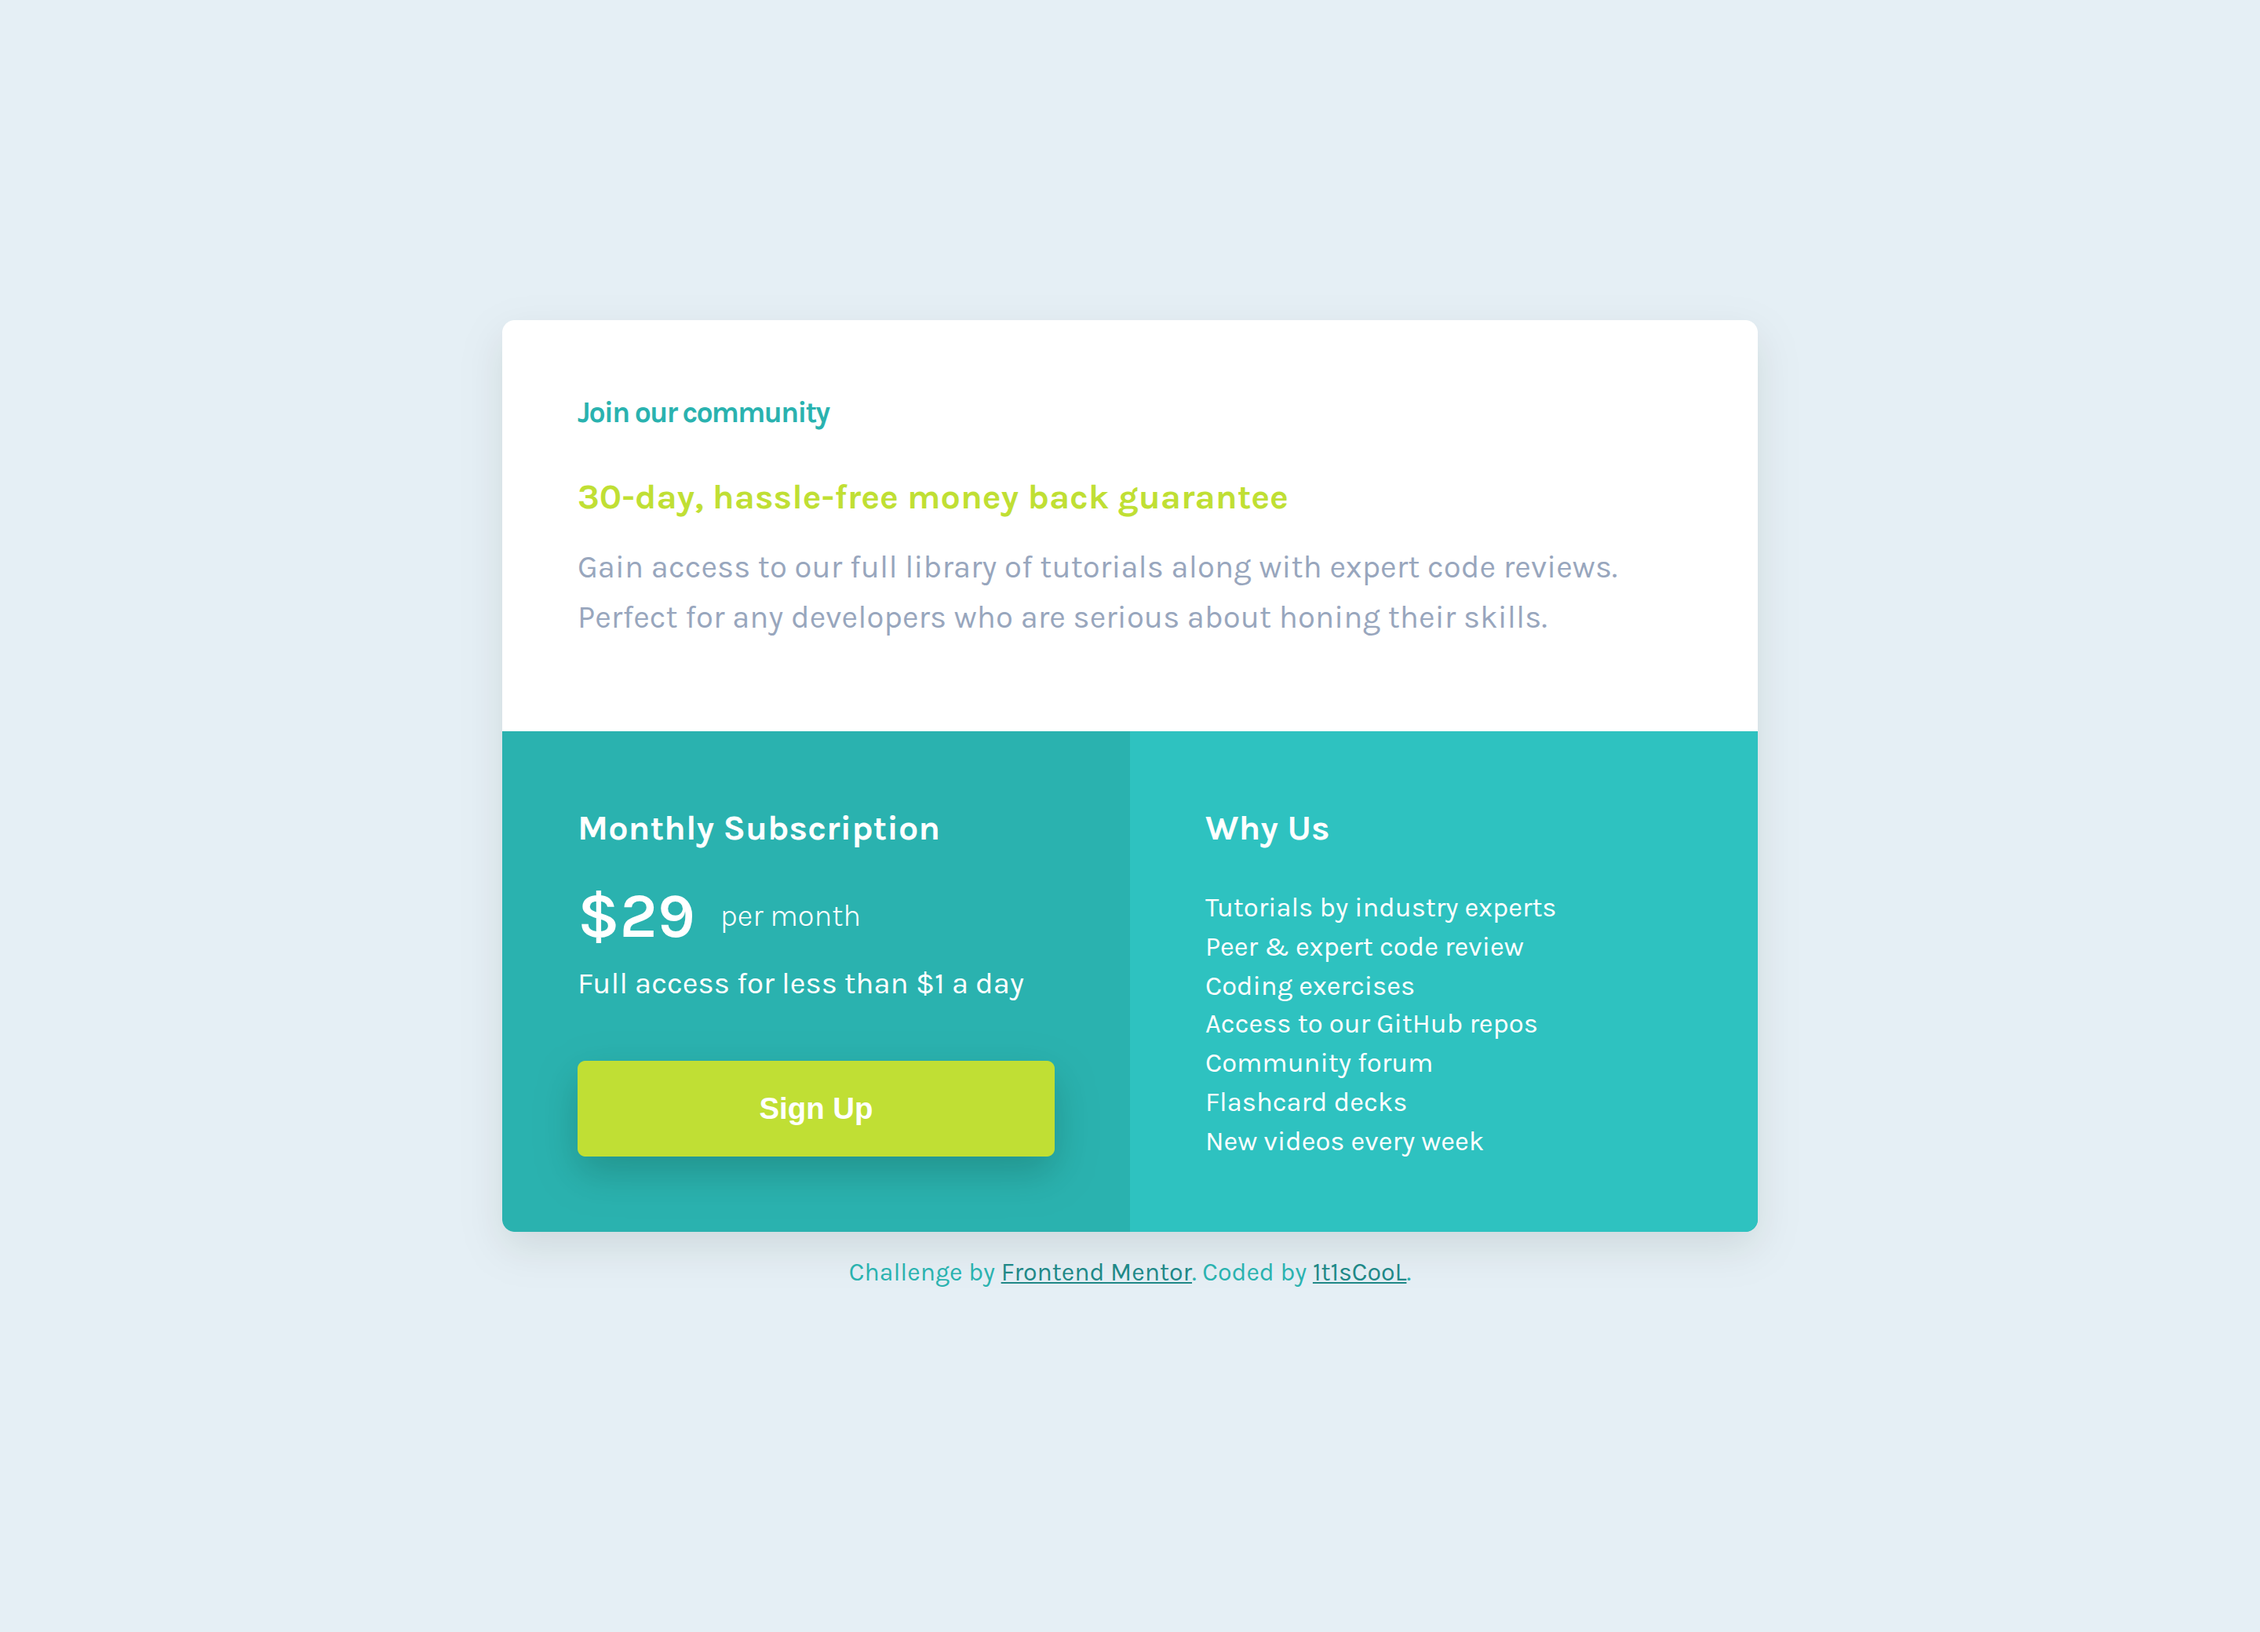
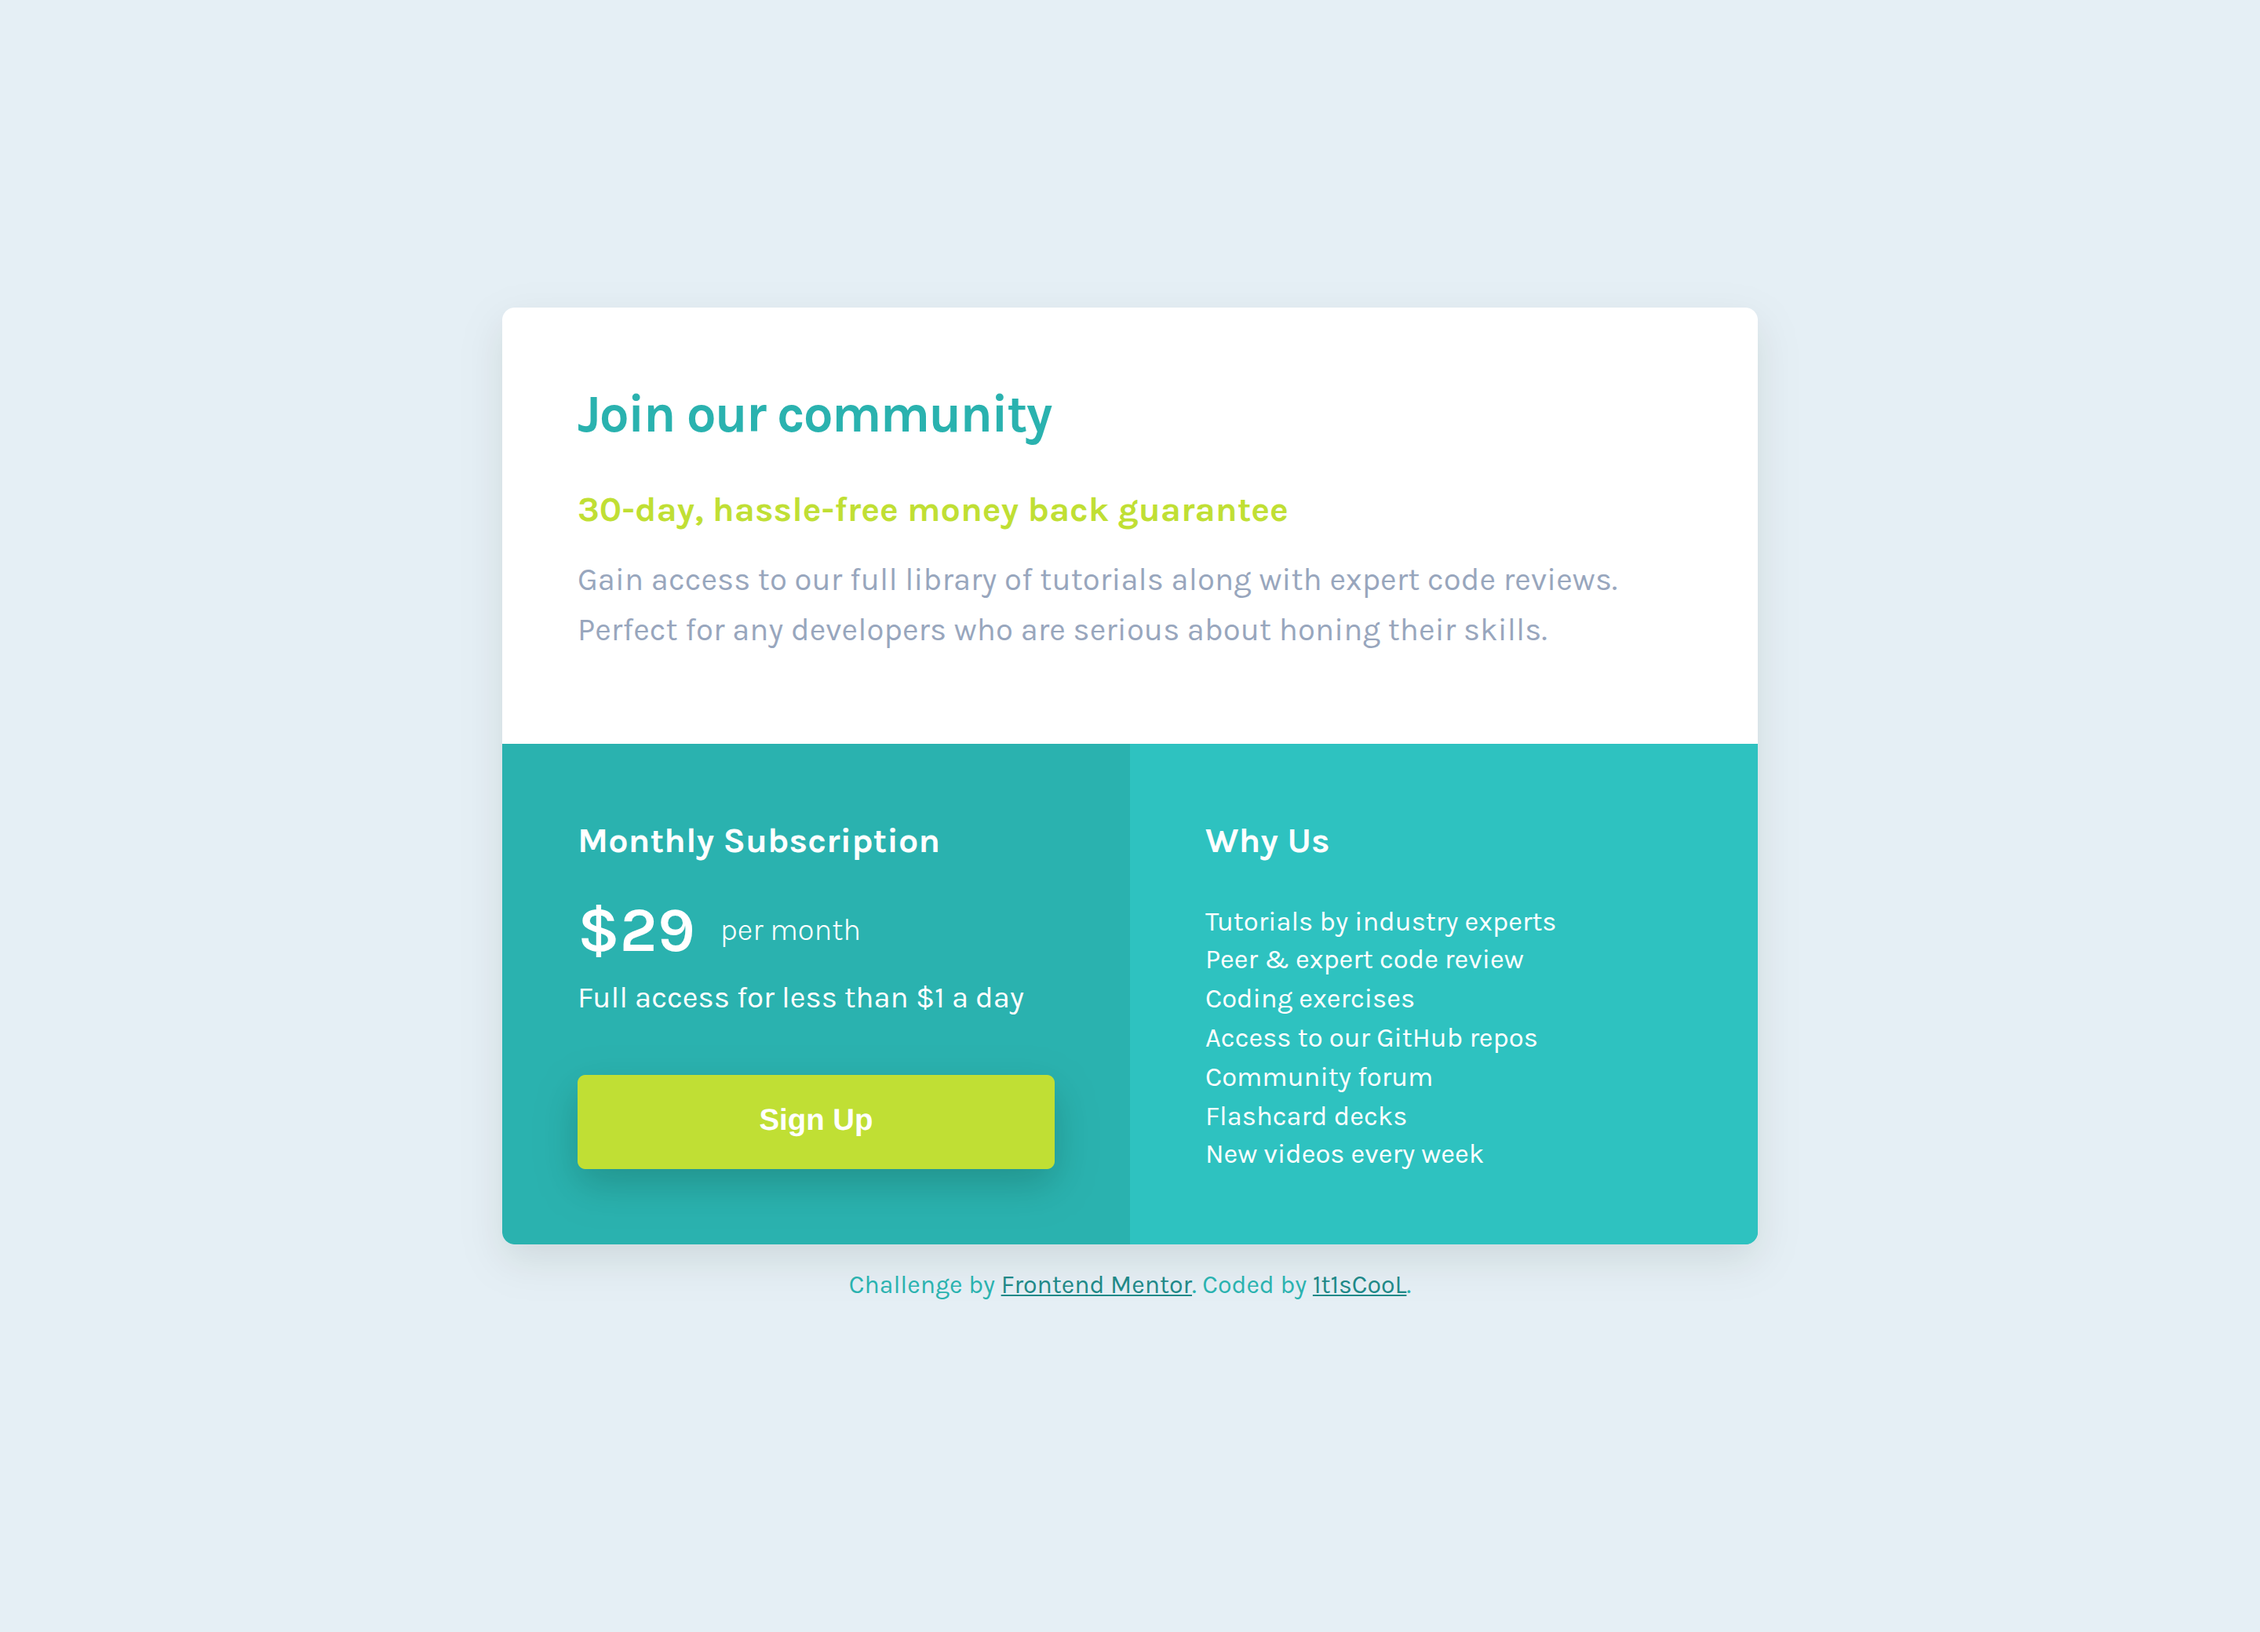
add hover effects

diff --git a/src/widgets/heading/Heading.module.css b/src/widgets/heading/Heading.module.css
@@ -11,11 +11,13 @@
     margin: 0 0 1.8rem 0;
     letter-spacing: -1px;
     font-size: 2.1rem;
+    transition: color 0.3s ease;
 }
 .heading h2 {
     color: var(--Green400);
     font-size: 1.4rem;
     margin: 0 0 1rem 0;
+    transition: color 0.3s ease;
 }
 .heading p {
     margin: 0 0 .5rem 0;
@@ -23,6 +25,12 @@
     font-size: 1.25rem;
     line-height: 1.6;
     letter-spacing: 0.003rem;
+}
+.heading h1:hover{
+    color: var(--Teal400);
+}
+.heading h2:hover{
+    color: var(--Green300);
 }
 @media (max-width: 850px) {
     .heading {

diff --git a/src/widgets/priceBox/PriceBox.module.css b/src/widgets/priceBox/PriceBox.module.css
@@ -35,6 +35,11 @@
     font-size: 1.2rem;
     font-weight: 600;
     box-shadow: 0 10px 25px 0 rgba(0, 20, 0, 0.2);
+    transition: box-shadow, background-color 0.3s ease;
+}
+.btn:hover{
+    background-color: var(--Green300);
+    box-shadow: 0 10px 15px 0 rgba(0, 20, 0, 0.2);
 }
 @media (max-width: 850px) {
     .priceBox{

diff --git a/src/app/styles/global.css b/src/app/styles/global.css
@@ -3,6 +3,7 @@
   --Teal600: hsla(179, 62%, 33%);
   --Teal400: hsla(179, 62%, 47%);
   --Green400: hsl(71, 73%, 54%);
+  --Green300: hsl(71, 73%, 64%);
   --Teal100: hsl(204, 43%, 93%);
   --Gray500: hsl(218, 22%, 67%);
 }
